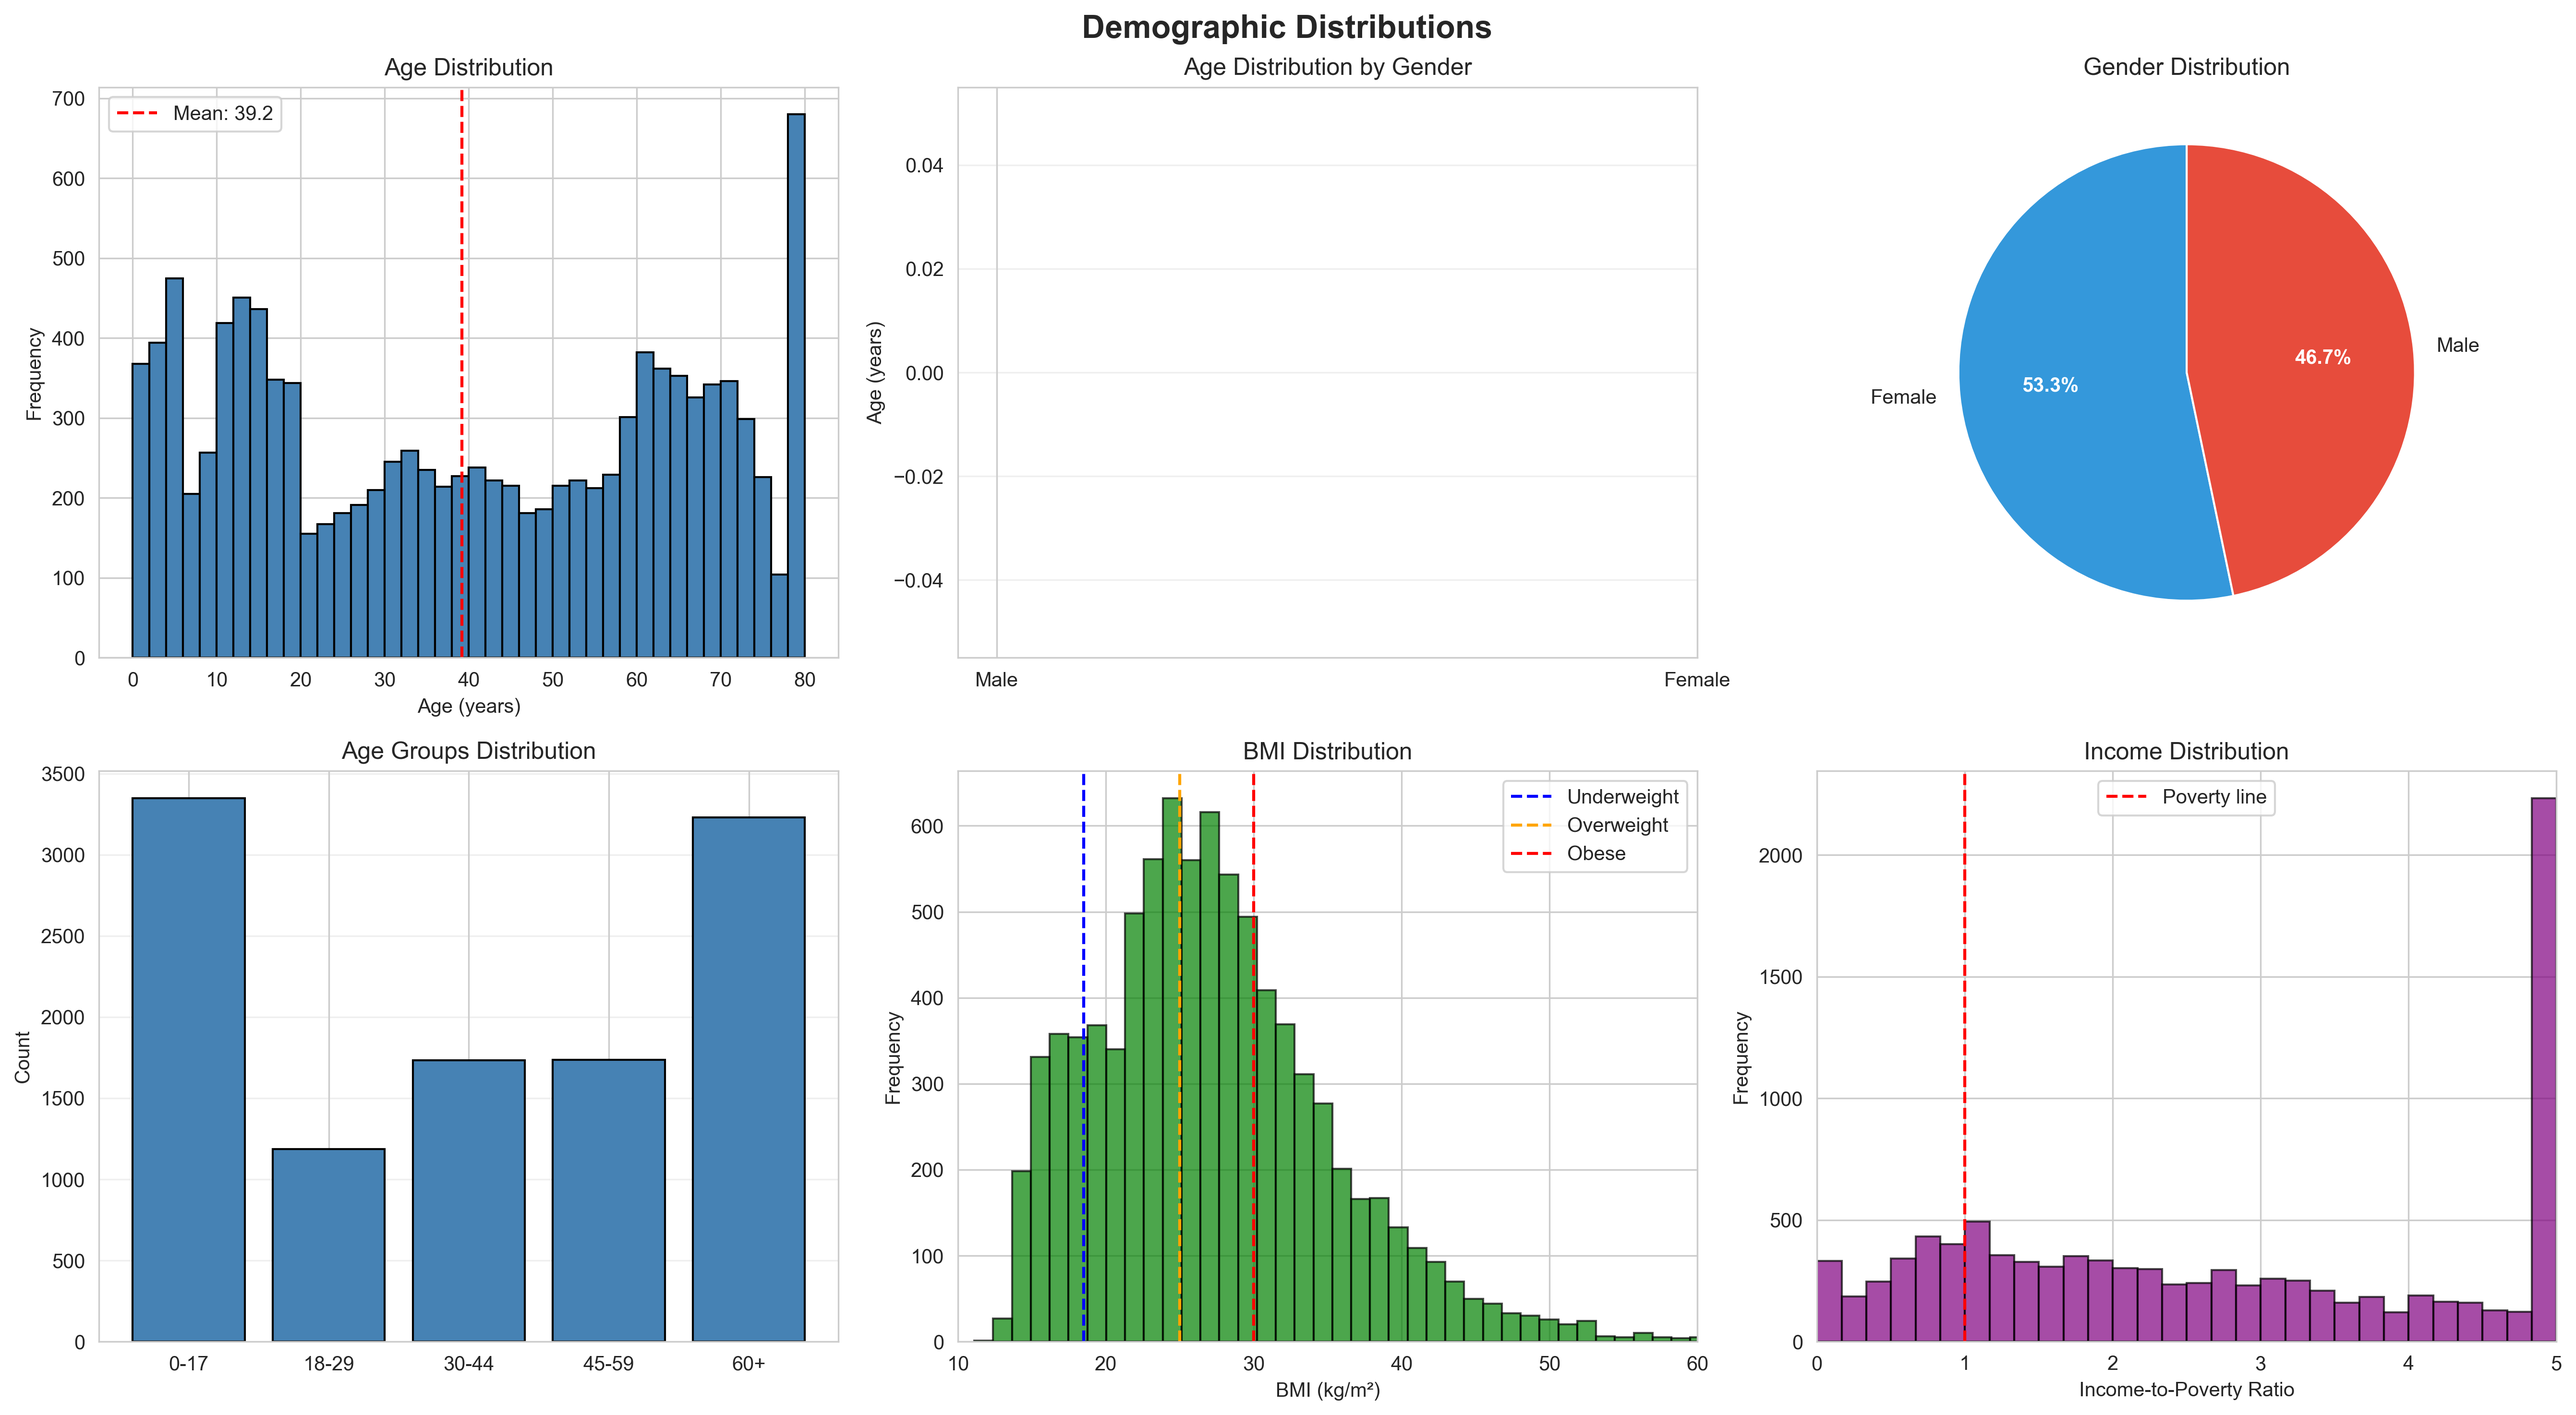
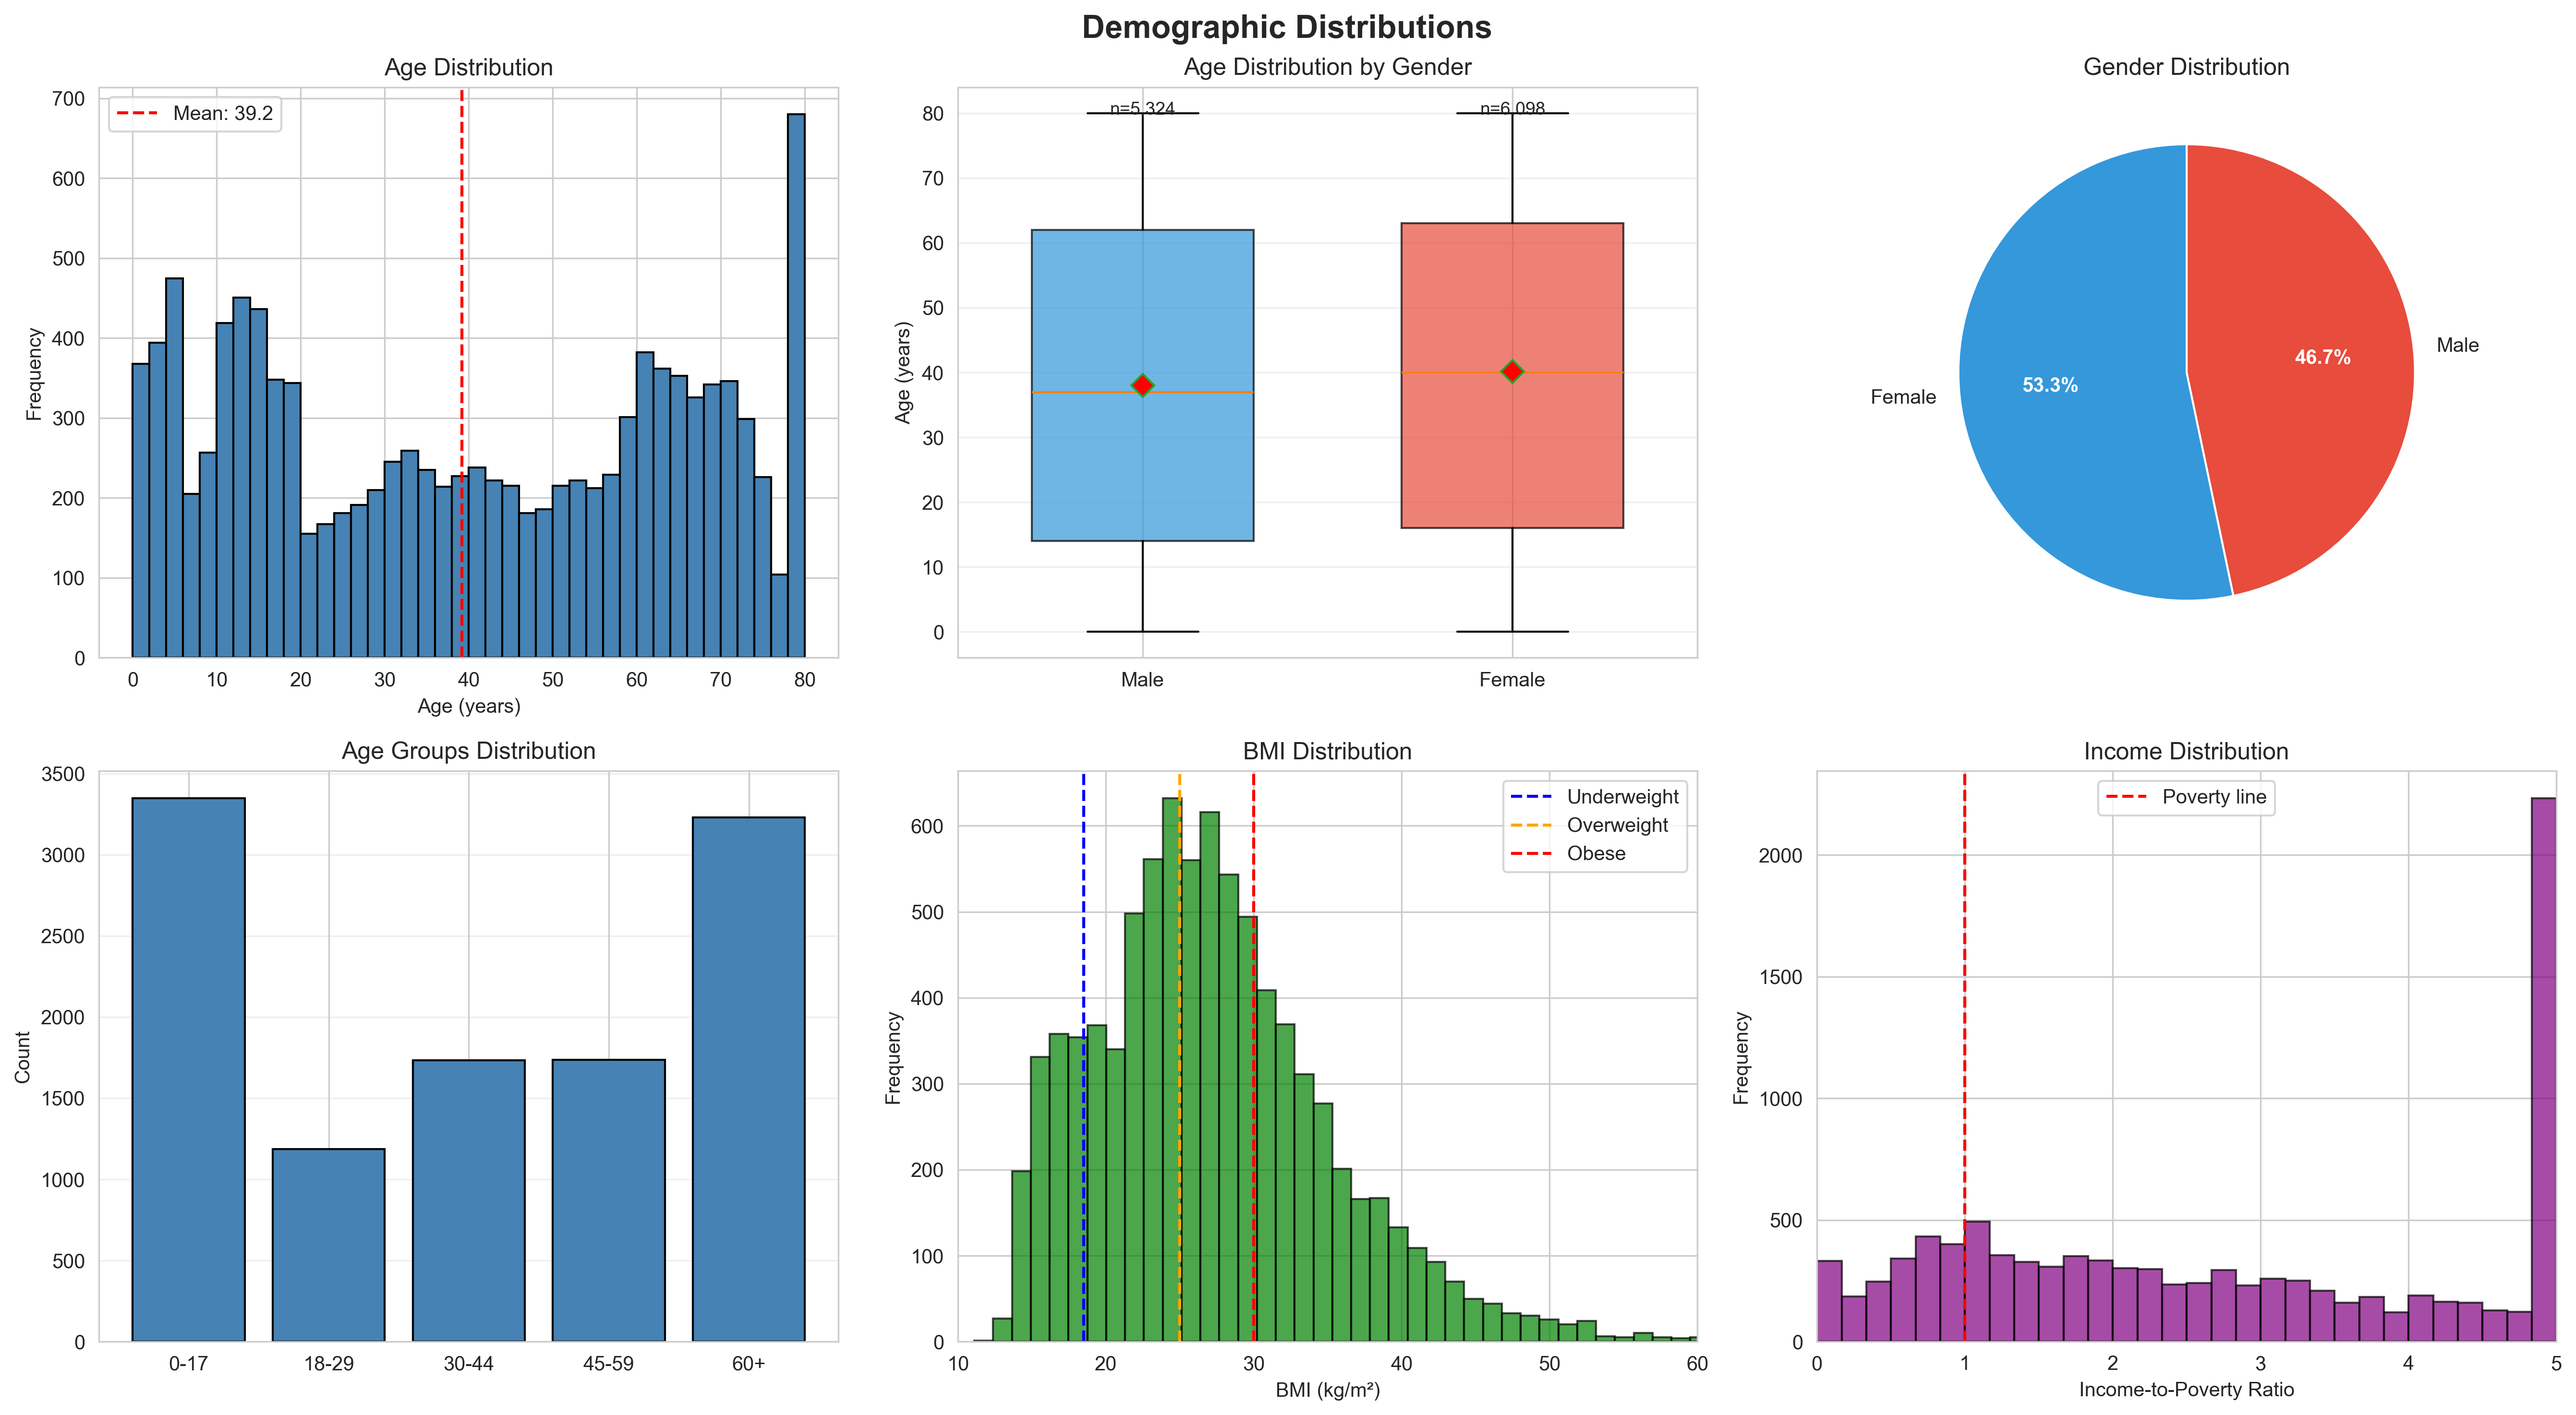
correct demographics figure

diff --git a/src/nhanes_eda.py b/src/nhanes_eda.py
@@ -91,14 +91,32 @@ class NHANESExploratoryAnalysis:
         
         # Age by gender
         ax = axes[0, 1]
-        gender_age = self.data.groupby('gender')['age'].apply(list)
-        ax.violinplot([gender_age['Male'], gender_age['Female']], 
-                      positions=[0, 1], showmeans=True, showmedians=True)
-        ax.set_xticks([0, 1])
-        ax.set_xticklabels(['Male', 'Female'])
+        age_gender_data = self.data[['age', 'gender']].dropna()
+        
+        # Create box plot instead of violin plot (more reliable)
+        male_ages = age_gender_data[age_gender_data['gender'] == 'Male']['age']
+        female_ages = age_gender_data[age_gender_data['gender'] == 'Female']['age']
+        
+        bp = ax.boxplot([male_ages, female_ages], 
+                        labels=['Male', 'Female'],
+                        patch_artist=True,
+                        widths=0.6,
+                        showmeans=True,
+                        meanprops=dict(marker='D', markerfacecolor='red', markersize=8))
+        
+        # Color the boxes
+        colors = ['#3498db', '#e74c3c']
+        for patch, color in zip(bp['boxes'], colors):
+            patch.set_facecolor(color)
+            patch.set_alpha(0.7)
+        
         ax.set_ylabel('Age (years)')
         ax.set_title('Age Distribution by Gender')
         ax.grid(axis='y', alpha=0.3)
+        
+        # Add sample sizes
+        ax.text(1, ax.get_ylim()[1] * 0.95, f'n={len(male_ages):,}', ha='center', fontsize=9)
+        ax.text(2, ax.get_ylim()[1] * 0.95, f'n={len(female_ages):,}', ha='center', fontsize=9)
         
         # Gender distribution
         ax = axes[0, 2]
